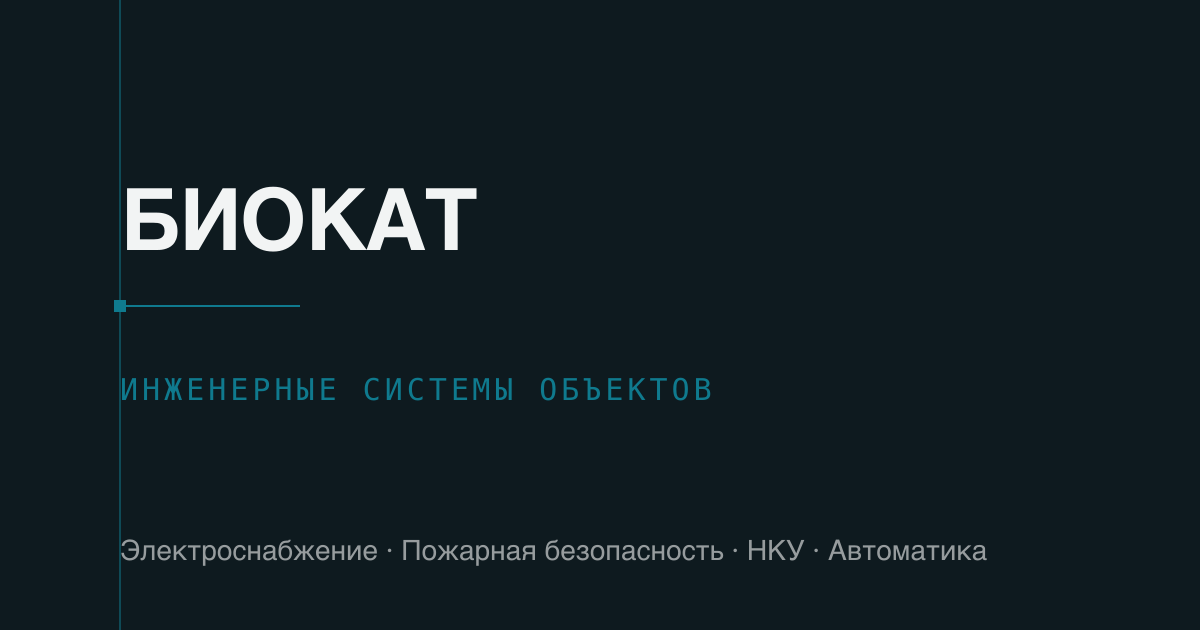
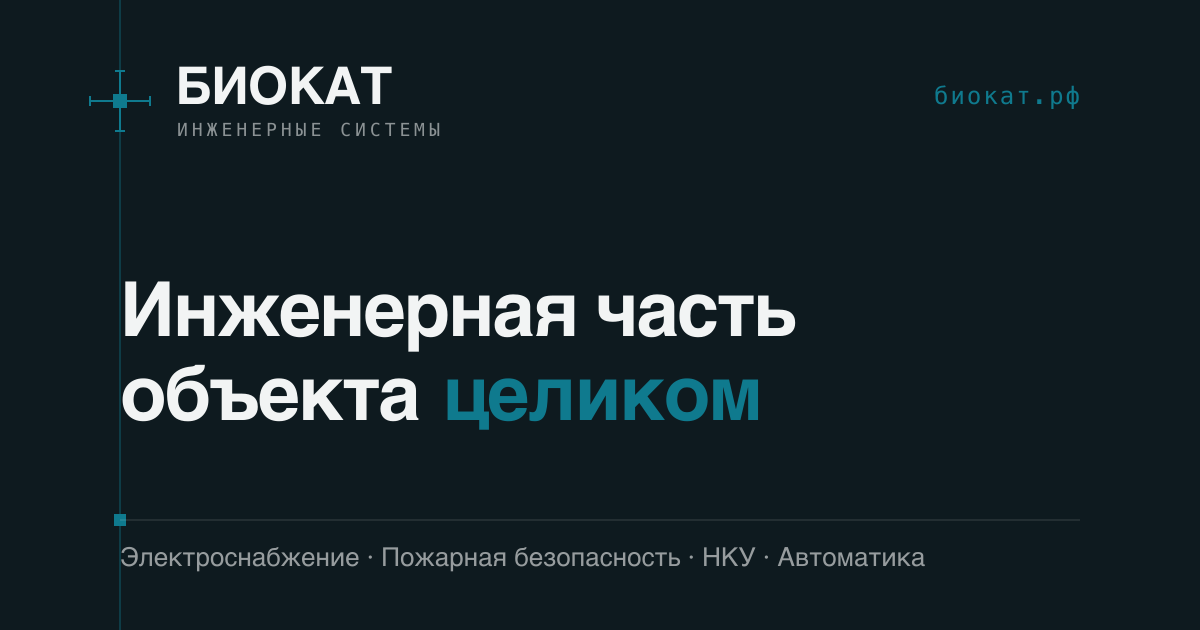
Фавикон из знака и знак на картинке для соцсетей
Фавикон перерисован под мелкий размер: в логотипе линии толщиной в одну
единицу, на 16 пикселях от них ничего бы не осталось. Пропорции огрублены,
знак вписан с отступом, чтобы пережить круглую обрезку в поиске, и вывернут
в светлый на фирменной заливке. Из одного исходника получаются apple-icon
и favicon.ico.

На картинке для мессенджеров появился знак — тем же контуром, что в шапке:
в удвоенном масштабе его линии становятся ровно 2 px, как шина рядом.
Заодно домен вынесен наверх, а полоса разделителя стала отводом от узла.

Origin для canonical и картинки теперь можно переопределить: иначе превью
на Pages вело бы мессенджер за картинкой на ещё не запущенный домен и
ссылка показывалась бы без изображения.

diff --git a/scripts/images.ts b/scripts/images.ts
@@ -160,18 +160,63 @@ async function buildDocuments() {
   }
 }
 
+/**
+ * Растровые иконки. Исходник один — app/icon.svg; отсюда получаются
+ * apple-icon для iOS и favicon.ico для старых браузеров и поисковиков,
+ * которые до сих пор просят именно .ico.
+ */
+async function buildIcons() {
+  const app = path.join(ROOT, 'app');
+  const source = await readFile(path.join(app, 'icon.svg'));
+
+  await sharp(source).resize(180, 180).png().toFile(path.join(app, 'apple-icon.png'));
+
+  const png = await sharp(source).resize(32, 32).png().toBuffer();
+  // ICO — это контейнер: заголовок, одна запись каталога и сам PNG внутри
+  const header = Buffer.alloc(22);
+  header.writeUInt16LE(0, 0); // зарезервировано
+  header.writeUInt16LE(1, 2); // тип: иконка
+  header.writeUInt16LE(1, 4); // сколько изображений
+  header.writeUInt8(32, 6); // ширина
+  header.writeUInt8(32, 7); // высота
+  header.writeUInt8(0, 8); // палитра не используется
+  header.writeUInt8(0, 9); // зарезервировано
+  header.writeUInt16LE(1, 10); // плоскостей
+  header.writeUInt16LE(32, 12); // бит на пиксель
+  header.writeUInt32LE(png.length, 14);
+  header.writeUInt32LE(22, 18); // смещение данных
+  await writeFile(path.join(app, 'favicon.ico'), Buffer.concat([header, png]));
+
+  console.log('иконки  apple-icon, favicon.ico');
+}
+
 async function buildOg() {
   const dir = path.join(ROOT, 'public', 'og');
   await mkdir(dir, { recursive: true });
+
+  // Знак берём тем же контуром, что и в шапке сайта: в удвоенном масштабе
+  // его линии становятся ровно 2 px — как и шина на этой же картинке.
+  const MARK =
+    'M15 0h1v31h-1zM0 15h31v1H0zM12 12h7v7h-7zM13 0h5v1h-5zM13 30h5v1h-5zM0 13h1v5H0zM30 13h1v5h-1z';
+
   const svg = `<svg xmlns="http://www.w3.org/2000/svg" width="1200" height="630" viewBox="0 0 1200 630">
   <rect width="1200" height="630" fill="${INK}"/>
-  <line x1="120" y1="0" x2="120" y2="630" stroke="${TEAL}" stroke-width="2" opacity="0.5"/>
-  <rect x="114" y="300" width="12" height="12" fill="${TEAL}"/>
-  <line x1="120" y1="306" x2="300" y2="306" stroke="${TEAL}" stroke-width="2"/>
-  <text x="120" y="250" font-family="Helvetica, Arial, sans-serif" font-size="86" font-weight="700" fill="${PAPER}" letter-spacing="-2">БИОКАТ</text>
-  <text x="120" y="400" font-family="ui-monospace, monospace" font-size="30" fill="${TEAL}" letter-spacing="4">ИНЖЕНЕРНЫЕ СИСТЕМЫ ОБЪЕКТОВ</text>
-  <text x="120" y="560" font-family="Helvetica, Arial, sans-serif" font-size="28" fill="${PAPER}" opacity="0.6">Электроснабжение · Пожарная безопасность · НКУ · Автоматика</text>
+
+  <line x1="120" y1="0" x2="120" y2="630" stroke="${TEAL}" stroke-width="2" opacity="0.35"/>
+
+  <g transform="translate(89 70) scale(2)"><path d="${MARK}" fill="${TEAL}"/></g>
+  <text x="175" y="104" font-family="Helvetica, Arial, sans-serif" font-size="52" font-weight="700" fill="${PAPER}" letter-spacing="-1">БИОКАТ</text>
+  <text x="177" y="136" font-family="ui-monospace, monospace" font-size="18" fill="${PAPER}" opacity="0.55" letter-spacing="4">ИНЖЕНЕРНЫЕ СИСТЕМЫ</text>
+  <text x="1080" y="104" text-anchor="end" font-family="ui-monospace, monospace" font-size="24" fill="${TEAL}" letter-spacing="2">биокат.рф</text>
+
+  <text x="120" y="336" font-family="Helvetica, Arial, sans-serif" font-size="76" font-weight="700" fill="${PAPER}" letter-spacing="-2">Инженерная часть</text>
+  <text x="120" y="420" font-family="Helvetica, Arial, sans-serif" font-size="76" font-weight="700" letter-spacing="-2"><tspan fill="${PAPER}">объекта</tspan><tspan fill="${TEAL}" dx="22">целиком</tspan></text>
+
+  <rect x="114" y="514" width="12" height="12" fill="${TEAL}"/>
+  <line x1="120" y1="520" x2="1080" y2="520" stroke="${PAPER}" stroke-width="1" opacity="0.18"/>
+  <text x="120" y="566" font-family="Helvetica, Arial, sans-serif" font-size="26" fill="${PAPER}" opacity="0.6">Электроснабжение · Пожарная безопасность · НКУ · Автоматика</text>
 </svg>`;
+
   await sharp(Buffer.from(svg)).png().toFile(path.join(dir, 'default.png'));
   await writeFile(path.join(dir, '.gitkeep'), '');
   console.log('og  default');
@@ -179,4 +224,5 @@ async function buildOg() {
 
 await buildProjects();
 await buildDocuments();
+await buildIcons();
 await buildOg();

diff --git a/lib/asset.ts b/lib/asset.ts
@@ -1,3 +1,5 @@
+import { company } from '@/content/company';
+
 /**
  * Префикс пути.
  *
@@ -12,4 +14,18 @@ export const basePath = process.env.NEXT_PUBLIC_BASE_PATH ?? '';
 
 export function asset(path: string): string {
   return `${basePath}${path}`;
+}
+
+/**
+ * Origin, от которого считаются canonical и картинка для соцсетей.
+ *
+ * На своём домене это домен компании. На превью в GitHub Pages ссылки
+ * ведут туда же, где лежит превью, иначе мессенджер пошёл бы за картинкой
+ * на ещё не запущенный сайт и показал бы ссылку без изображения.
+ */
+export const siteOrigin = process.env.NEXT_PUBLIC_SITE_ORIGIN ?? company.origin;
+
+/** Абсолютный адрес страницы или файла — с учётом подпапки превью */
+export function absolute(path: string): string {
+  return `${siteOrigin}${asset(path)}`;
 }

diff --git a/lib/seo.ts b/lib/seo.ts
@@ -1,5 +1,6 @@
 import type { Metadata } from 'next';
 import { company } from '@/content/company';
+import { absolute } from '@/lib/asset';
 
 const SITE = 'ГК «Биокат»';
 
@@ -20,7 +21,7 @@ export function buildMetadata({
   ogImage = '/og/default.png',
 }: BuildMetadataArgs): Metadata {
   const fullTitle = bare ? title : `${title} — ${SITE}`;
-  const url = `${company.origin}${path}`;
+  const url = absolute(path);
   return {
     title: fullTitle,
     description,
@@ -32,12 +33,13 @@ export function buildMetadata({
       title: fullTitle,
       description,
       url,
-      images: [{ url: `${company.origin}${ogImage}`, width: 1200, height: 630 }],
+      images: [{ url: absolute(ogImage), width: 1200, height: 630 }],
     },
     twitter: {
       card: 'summary_large_image',
       title: fullTitle,
       description,
+      images: [absolute(ogImage)],
     },
   };
 }

diff --git a/app/layout.tsx b/app/layout.tsx
@@ -4,6 +4,7 @@ import { BusRail } from '@/components/motion/BusRail';
 import { Header } from '@/components/layout/Header';
 import { Footer } from '@/components/layout/Footer';
 import { company } from '@/content/company';
+import { siteOrigin } from '@/lib/asset';
 import { mainNav } from '@/content/nav';
 import { services } from '@/content/services';
 import { organizationJsonLd } from '@/lib/seo';
@@ -31,7 +32,7 @@ const jetbrains = JetBrains_Mono({
 });
 
 export const metadata: Metadata = {
-  metadataBase: new URL(company.origin),
+  metadataBase: new URL(siteOrigin),
   title: {
     default: 'ГК «Биокат» — инженерные системы объектов',
     template: '%s',
